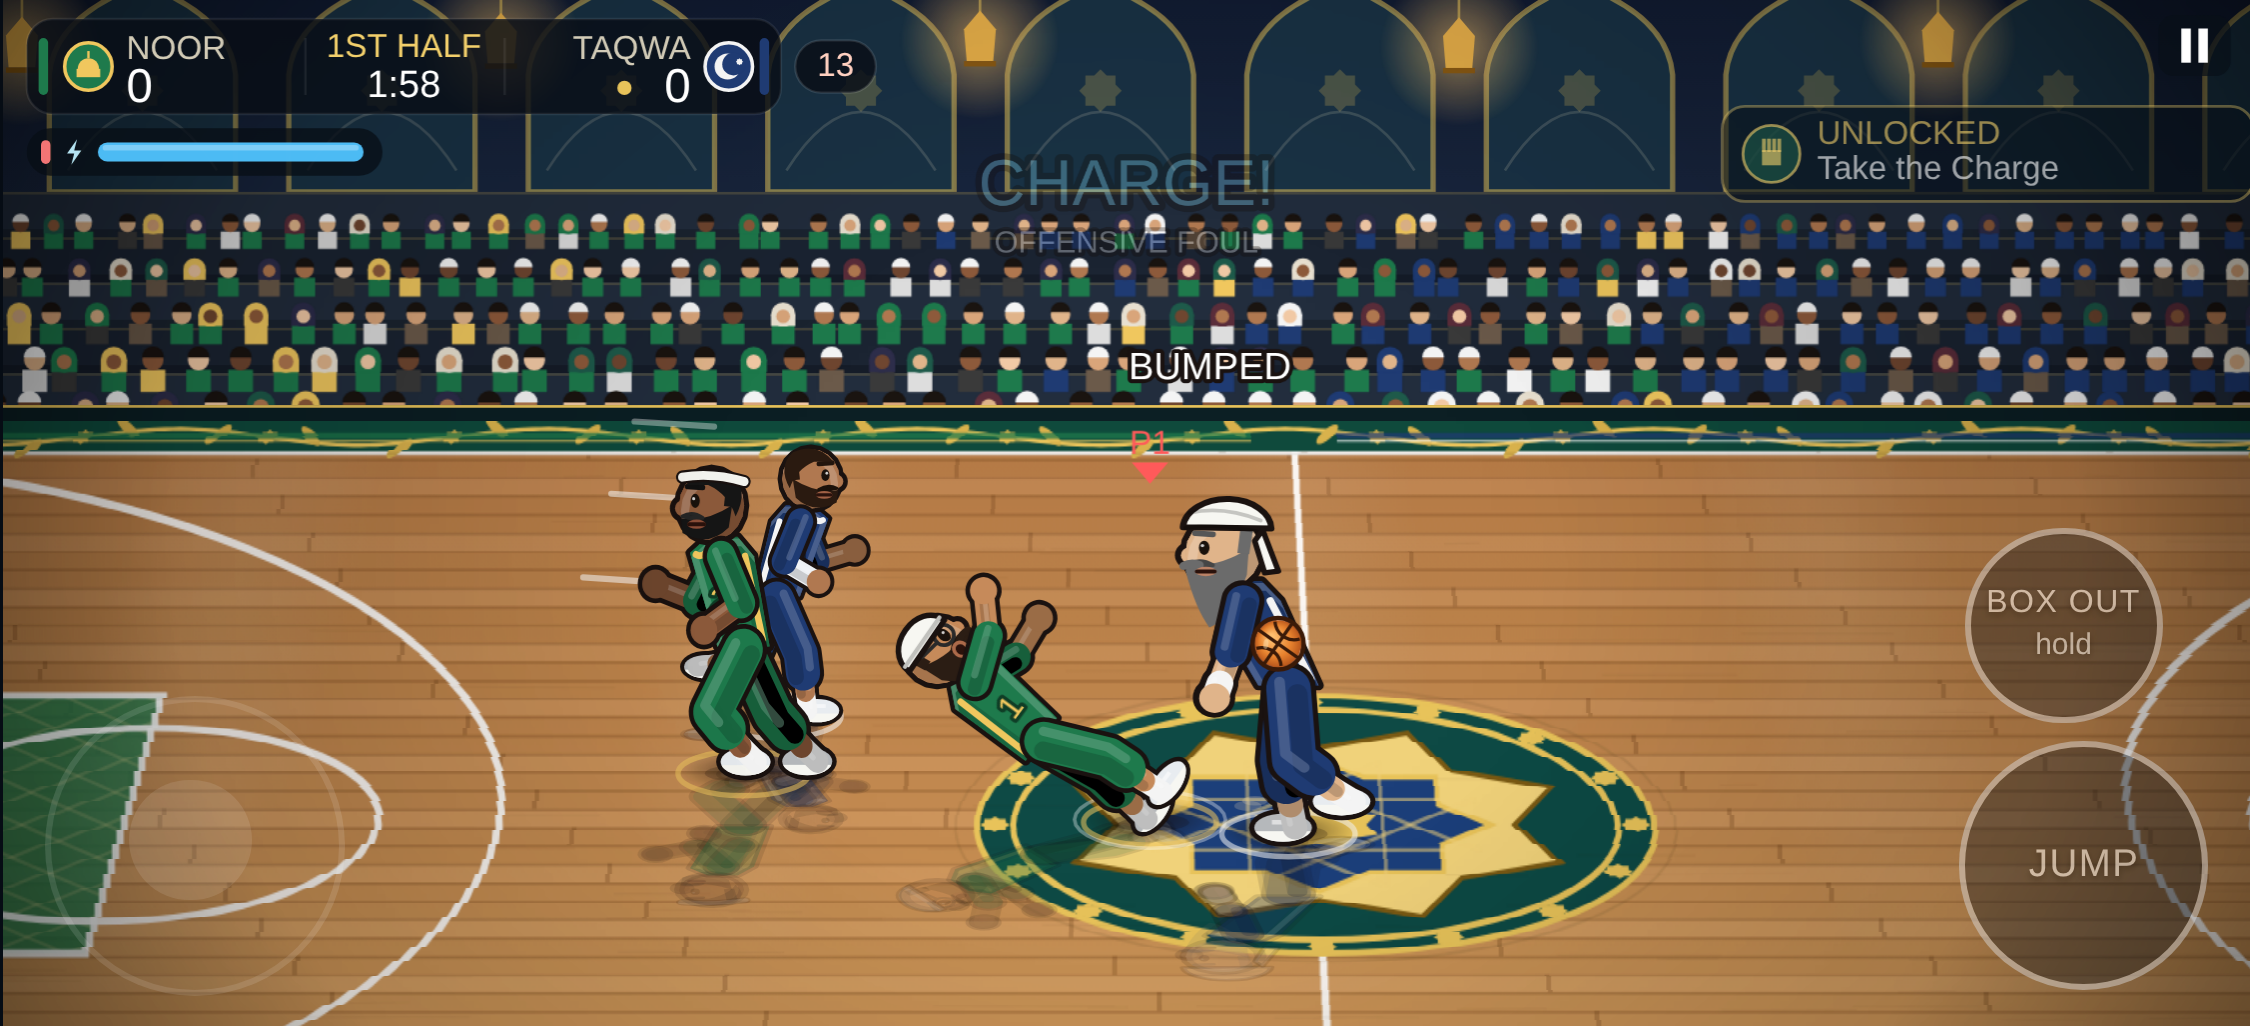
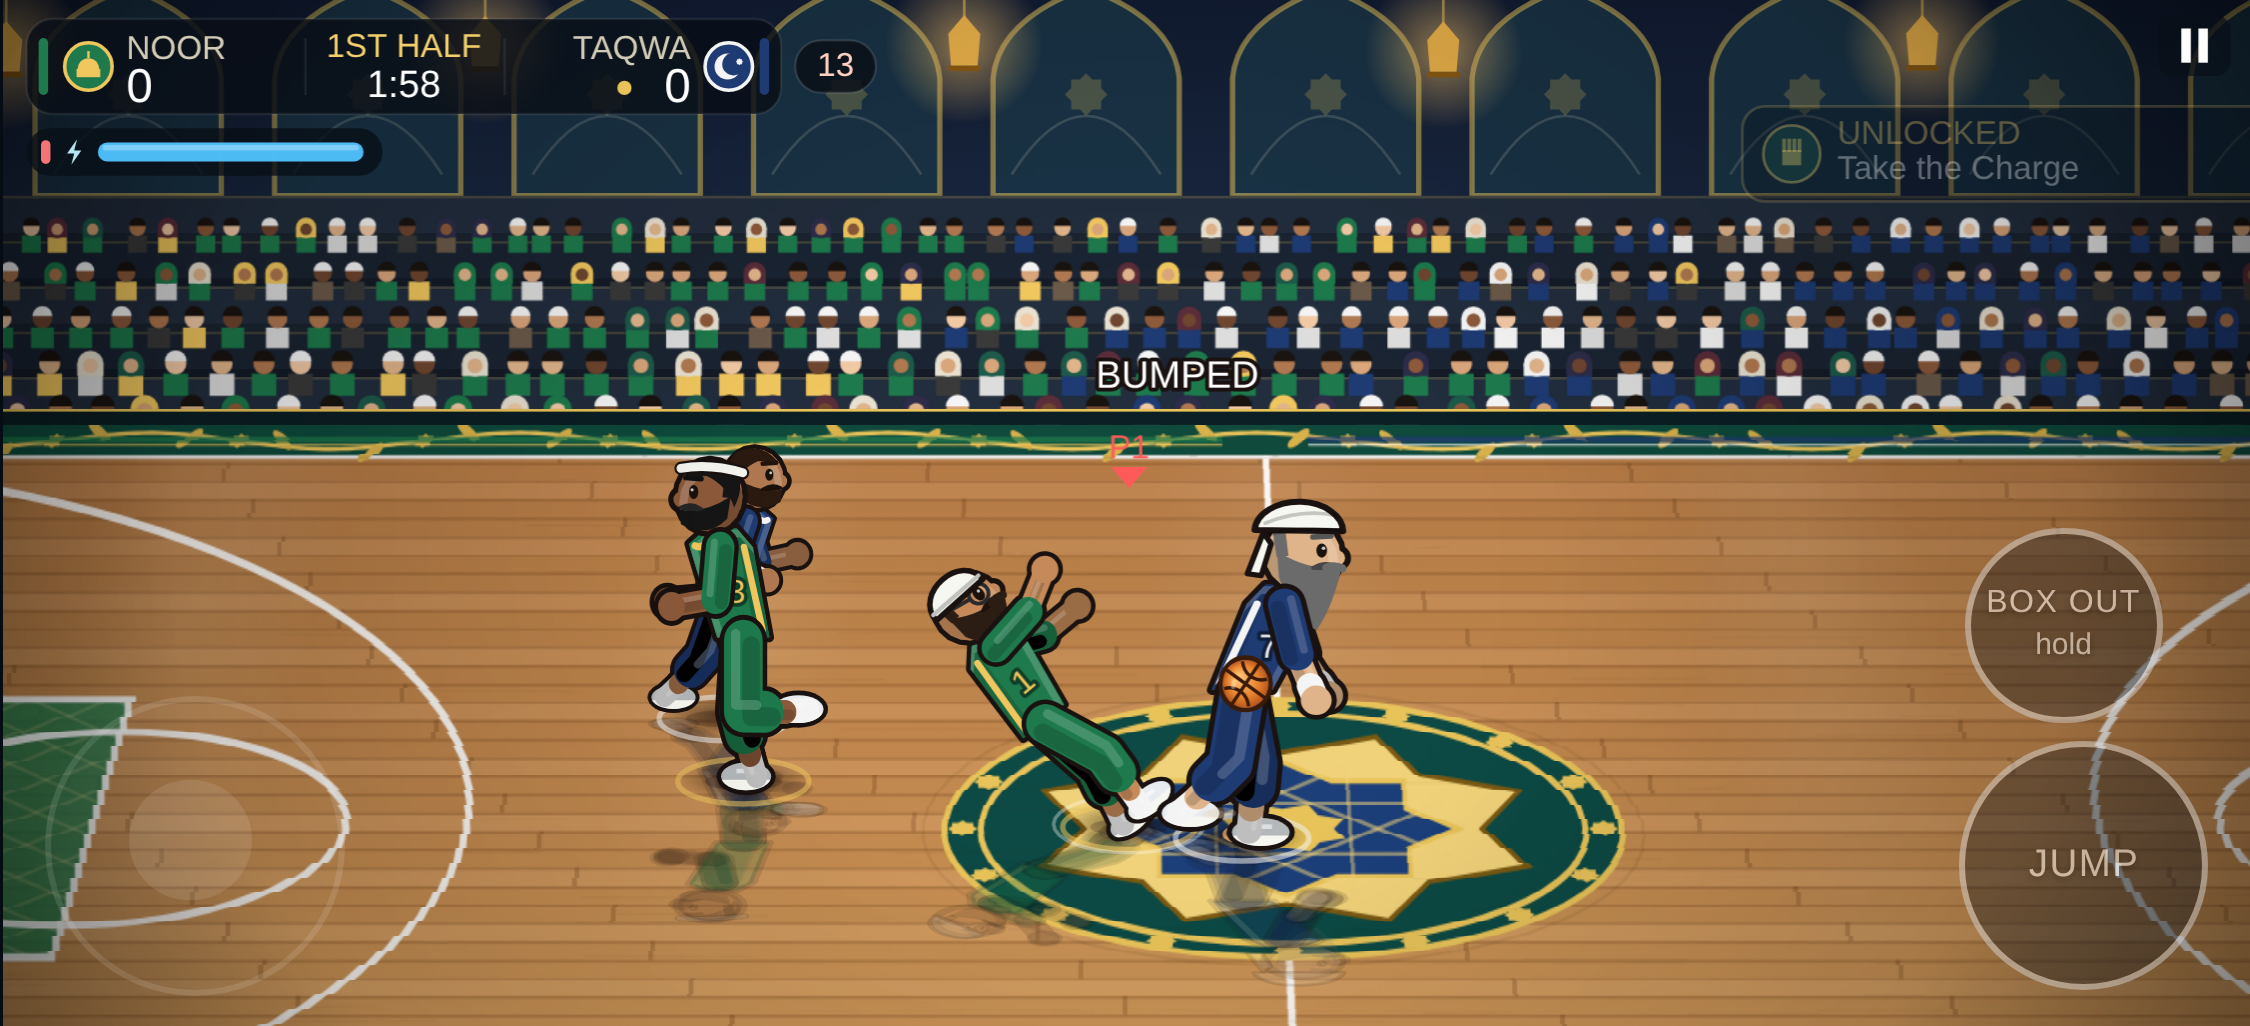
Design batch C fixes: studio ids, sound list, B20 backlog item, 9.17.0 notes

diff --git a/src/screens/motion-pass.js b/src/screens/motion-pass.js
@@ -1,4 +1,4 @@
-// ================================================= v9.17.1: DESIGN PASS, BATCH C: MOTION (docs/IMPROVEMENTS.md VD3, VD4, UI1)
+// ================================================= v9.17: DESIGN PASS, BATCH C: MOTION (docs/IMPROVEMENTS.md VD3, VD4, UI1)
 //   VD3 the opening logo: within the same 1.7 s, the dunker rises in and lands softly, the emblem pulses once as he
 //       lands, and a gold glint sweeps across ISLAM DUNK. Reduced motion: the plain fade, as before. A tap still skips.
 //   VD4 the results screen: the final score counts up and the Player of the Game panel slides in, under a second in

diff --git a/src/core/config.js b/src/core/config.js
@@ -4,7 +4,7 @@
 // 2) Make passes, drives, dunks, and defensive contests communicate their intent and counterplay.
 // 3) Keep camera/impact presentation readable, accessible, and inexpensive on mobile.
 let REDUCED_MOTION = !!(window.matchMedia && window.matchMedia('(prefers-reduced-motion: reduce)').matches);
-const VERSION = '9.16.4';
+const VERSION = '9.17.0';
 /* =====================================================================
    ISLAM DUNK — 2v2 masjid-league arcade basketball
    Systems (in order): Config & Data · Utils · Audio · Input · Hoops/Net

diff --git a/docs/IMPROVEMENTS.md b/docs/IMPROVEMENTS.md
@@ -9,12 +9,13 @@ Score: **Priority = (Impact + Risk) × (6 − Effort)**, each from 1 to 5. Highe
 |---|------|--------|:-:|:-:|:-:|:-:|---|
 | B1 | Rollback: a half-court game is half court on the host only (two different games) | code review | 5 | 5 | 1 | **50** | open, confirmed |
 | B2 | Rollback: each phone uses its own owner's taunt for both players (desync) | code review | 4 | 4 | 1 | **40** | open, confirmed |
+| B20 | Rollback: your own equipped celebration (Options → Profile) is read from each phone's own profile; 9.17.0 uses cast celebrations online, but check every profile cosmetic that changes a pose inside a rollback match | code review | 4 | 4 | 1 | **40** | open |
+| B3 | Rollback: a dropped direct link is never retried during the match | code review | 4 | 4 | 2 | **32** | open |
 | T1 | Run the tests automatically on every push to `main` | tech debt | 4 | 5 | 2 | **36** | open |
 | S2 | Firebase limits and abuse: 100 players at once on the free plan; no App Check | security | 5 | 4 | 2 | **36** | open |
 | G5 | Before any ads: block gambling, alcohol and dating ad categories | launch | 3 | 4 | 1 | **35** | before ads |
 | G8 | Online on portals: add itch.io's and CrazyGames' game origins to the relay Worker's `ALLOWED_ORIGINS` (today only GitHub Pages and localhost), and check the Firebase key isn't limited to one site | launch | 4 | 3 | 1 | **35** | open |
 | Q2 | Run the phone and online tests in WebKit (Safari's engine) too | testing | 4 | 4 | 2 | **32** | open |
-| B3 | Rollback: a dropped direct link is never retried during the match | code review | 4 | 4 | 2 | **32** | open |
 | SV1 | Protect career saves on iPhone: persistent storage, a backup copy, Export/Import save | save systems | 4 | 4 | 2 | **32** | open |
 | Q9 | `rb-slow` (online, one very slow device) reports repaired desyncs since at least 9.16.2; passed on 9.15.0: find the cause | testing | 4 | 4 | 2 | **32** | open |
 | S1 | Cap the rollback input runs (a modified game can freeze the other player) | security | 3 | 3 | 1 | **30** | open |
@@ -46,7 +47,7 @@ Score: **Priority = (Impact + Risk) × (6 − Effort)**, each from 1 to 5. Highe
 | B5 | Rollback: the host has no "End game: back to lobby" and no "friend dropped" notice | code review | 3 | 3 | 2 | **24** | open |
 | B6 | Rollback: the starting state uses the browser's own maths (Safari vs Chrome can differ at frame 0) | code review | 3 | 3 | 2 | **24** | open |
 | G1 | Privacy-friendly analytics: players returning next day and week, online matches started and finished | launch | 4 | 2 | 2 | **24** | open |
-| CD1 | Silhouette lineup fails: the 16 main players share one body; give heights, builds and 2–3 landmarks each | character design | 4 | 2 | 2 | **24** | open |
+| CD1 | Silhouette lineup fails: the 16 main players share one body; give heights, builds and 2–3 landmarks each | character design | 4 | 2 | 2 | **24** | done in 9.17.0 |
 | A4 | Give the renderer its own view state | architecture | 3 | 4 | 3 | **21** | open |
 | Q8 | Fast match tests in Node, without a browser (after A1) | testing | 4 | 3 | 3 | **21** | open (after A1) |
 | X1 | Bigger tap targets in menus on phones (rows are about 23 px tall; 44 recommended) | accessibility | 4 | 3 | 3 | **21** | open |
@@ -70,7 +71,7 @@ Score: **Priority = (Impact + Risk) × (6 − Effort)**, each from 1 to 5. Highe
 | GD3 | A short "pickup game" option online for phone sessions (one 3-minute half, or first to 11) | game design | 3 | 1 | 1 | **20** | open |
 | ST1 | Steam: open the partner account and pay the app fee early (30-day tax check, 21-day wait), Coming Soon page for wishlists | Steam | 4 | 1 | 2 | **20** | open |
 | ST4 | Steam store page: capsules, a trailer from highlight clips, screenshots, the AI-content survey | Steam | 3 | 2 | 2 | **20** | open |
-| CD3 | Teammates in the same kit look alike at play size: add one large personal mark (headband, sleeve, long shorts, knee pad) | character design | 3 | 2 | 2 | **20** | open |
+| CD3 | Teammates in the same kit look alike at play size: add one large personal mark (headband, sleeve, long shorts, knee pad) | character design | 3 | 2 | 2 | **20** | done in 9.17.0 |
 | VD2 | Vertical (9:16) highlight videos for TikTok, Reels and Shorts (today 1280×720 only) | visual design | 4 | 1 | 2 | **20** | open |
 | UX1 | Screens without arrow-key menus need the gamepad's View button to pick a target: show that hint, or give them focus order | UI | 3 | 2 | 2 | **20** | open |
 | PH1 | A stress test that fires the ball at the rim and glass at top speed and checks it never passes through | physics | 2 | 2 | 1 | **20** | open |
@@ -113,7 +114,7 @@ Score: **Priority = (Impact + Risk) × (6 − Effort)**, each from 1 to 5. Highe
 | G7 | itch.io: an HTML page (Kind = HTML, "playable in browser"), `butler push` of the web folder to an `html` channel, desktop folders to `windows`, `osx`, `linux` | launch | 2 | 1 | 1 | **15** | open |
 | CD6 | A one-line personality for each Quick Play player, shown on the team card | character design | 2 | 1 | 1 | **15** | open |
 | CD7 | A short cast sheet in `docs/` (silhouette, colours, landmarks, pose per player) so new players stay consistent | character design | 2 | 1 | 1 | **15** | open |
-| VD3 | The splash is a still logo for 1.7 s: give it motion (a dunk, a glow) for the first 3 seconds | visual design | 2 | 1 | 1 | **15** | open |
+| VD3 | The splash is a still logo for 1.7 s: give it motion (a dunk, a glow) for the first 3 seconds | visual design | 2 | 1 | 1 | **15** | done in 9.17.0 |
 | GF2 | Phone vibration on big plays for Android (gamepads already rumble; iPhone browsers don't allow it) | game feel | 2 | 1 | 1 | **15** | open |
 | AU3 | Measure the whole mix's loudness over a match (phones: about -18 LUFS) and set the master level from it | audio | 2 | 1 | 1 | **15** | open |
 | AI1 | A debug view that draws each CPU player's current plan and target on court (for tuning and bug reports) | game AI | 2 | 1 | 1 | **15** | open |
@@ -121,11 +122,11 @@ Score: **Priority = (Impact + Risk) × (6 − Effort)**, each from 1 to 5. Highe
 | A5 | One player intent per frame from every device | architecture | 3 | 3 | 4 | **12** | open (after A1) |
 | W5 | robots.txt, a sitemap, and a short own domain for sharing | SEO and sharing | 2 | 1 | 2 | **12** | open |
 | G6 | A seasonal calendar for posts and updates: Ramadan, Eid, Jumu'ah challenges | launch | 3 | 1 | 3 | **12** | open |
-| UI1 | Menus jump-cut between screens: short fades or slides | UI | 2 | 1 | 2 | **12** | open |
-| CD4 | Stance and idle pose are the same for everyone: posture that matches each personality | character design | 2 | 1 | 2 | **12** | open |
-| CD5 | Faces have joy, fierce and shock only: add disappointed (a miss, a loss) and focused (free throw) | character design | 2 | 1 | 2 | **12** | open |
+| UI1 | Menus jump-cut between screens: short fades or slides | UI | 2 | 1 | 2 | **12** | done in 9.17.0 |
+| CD4 | Stance and idle pose are the same for everyone: posture that matches each personality | character design | 2 | 1 | 2 | **12** | done in 9.17.0 |
+| CD5 | Faces have joy, fierce and shock only: add disappointed (a miss, a loss) and focused (free throw) | character design | 2 | 1 | 2 | **12** | done in 9.17.0 |
 | GT7 | Check how often the Noor question stops play; an option to ask it at timeouts and halftime | game design | 2 | 1 | 2 | **12** | open |
-| VD4 | Results screen: animate the score count and Player of the Game, dim the court fully (with D1) | visual design | 2 | 1 | 2 | **12** | open |
+| VD4 | Results screen: animate the score count and Player of the Game, dim the court fully (with D1) | visual design | 2 | 1 | 2 | **12** | done in 9.17.0 |
 | GF3 | Small presses get no feedback: a tiny pop on a made free throw, a pass caught, a steal attempt | game feel | 2 | 1 | 2 | **12** | open |
 | UX2 | 16:10 (Steam Deck, many laptops) and ultrawide get black bars: let the height grow on 16:10 | UI | 2 | 1 | 2 | **12** | open |
 | UX3 | Buttons are fixed widths sized to English; translations will overflow (with UI2) | UI | 2 | 1 | 2 | **12** | open |
@@ -139,7 +140,7 @@ Score: **Priority = (Impact + Risk) × (6 − Effort)**, each from 1 to 5. Highe
 | PH2 | Restarts and inbounds that move players blend across one frame: refresh the interpolation after a move | physics | 1 | 1 | 1 | **10** | open |
 | B9 | Rollback: halftime is skipped (a known gap; the saved screen is never used) | code review | 2 | 1 | 3 | **9** | open |
 | D5 | The career hub is dense (5 zones); consider a calmer layout | design | 2 | 1 | 3 | **9** | open |
-| CD2 | A signature for each main character: a celebration, posture or accessory | character design | 2 | 1 | 3 | **9** | open |
+| CD2 | A signature for each main character: a celebration, posture or accessory | character design | 2 | 1 | 3 | **9** | done in 9.17.0 |
 | T3 | Fold the 34 versioned patch files (`v6-…` to `v9161-…`) into their feature files | tech debt | 4 | 3 | 5 | **7** | open (gets easier after A1, A6) |
 | X5 | Announce menus to screen readers (the game is one canvas) | accessibility | 2 | 1 | 4 | **6** | open |
 

diff --git a/CHANGELOG.md b/CHANGELOG.md
@@ -1,5 +1,28 @@
 # Changelog
 
+## 9.17.0: the cast comes to life, and motion (design batches B and C)
+The second and third batches from the design review (docs/IMPROVEMENTS.md CD1–CD5, CD2, VD3, VD4, UI1). Looks and
+motion only: no speed, reach, skill, timing or AI change.
+- **A look for each of the 16 main players** (`src/data/cast.js`): their own heights and builds, and one or two
+  landmarks each (glasses, headbands, shooting sleeves, wristbands, coloured shoes, cap colours, longer beards).
+  Heights and builds are drawn only, so contact strength and the CPU's style are unchanged.
+- **Fuller beards** for everyone: the beard joins the hair with sideburns and has a moustache.
+- **Faces by the eyes and brows only.** No mouths anywhere (`docs/adr/0002`). New expressions: disappointed after his
+  own miss and on a loss, focused at the free-throw line.
+- **Idle stances** between plays, matched to each player (upright, bouncy, low, hands on hips, hands on knees,
+  hands behind the back…), never while holding the ball or guarding it.
+- **Signature celebrations** after his own big play and a win: hand on heart, fist, both arms, salute, finger to the
+  sky, takbir (standing only). In an online match everyone uses his cast celebration, so both phones show the same.
+- **Sujood removed from the game** (owner decision, `docs/adr/0002`): the taunt and the profile celebration are gone.
+  Saved profiles that had it equipped switch to Arms raised and Finger to the sky. The taunt's place in the online
+  list is kept, so older and newer versions still agree on the others.
+- **Opening logo in motion:** the dunker rises in and lands softly, the emblem pulses once and a gold glint sweeps
+  across ISLAM DUNK, all within the same 1.7 s. Reduced motion keeps the plain fade.
+- **Results screen:** the score counts up and Player of the Game slides in, in under a second; a tap or a key
+  finishes it at once.
+- **Menus fade up from dark (0.15 s)** when the screen changes; never in a match, and none with Reduced motion.
+- Baselines accepted: `jumuah-visual` (the new beards) and the phone HUD shots.
+
 ## 9.16.4: design pass, batch A
 The first batch from the design review (docs/IMPROVEMENTS.md D1, D2, D3), in `src/screens/design-pass.js`.
 - **Results screen over a dark court.** The court behind the winner, the score and Player of the Game is darkened
